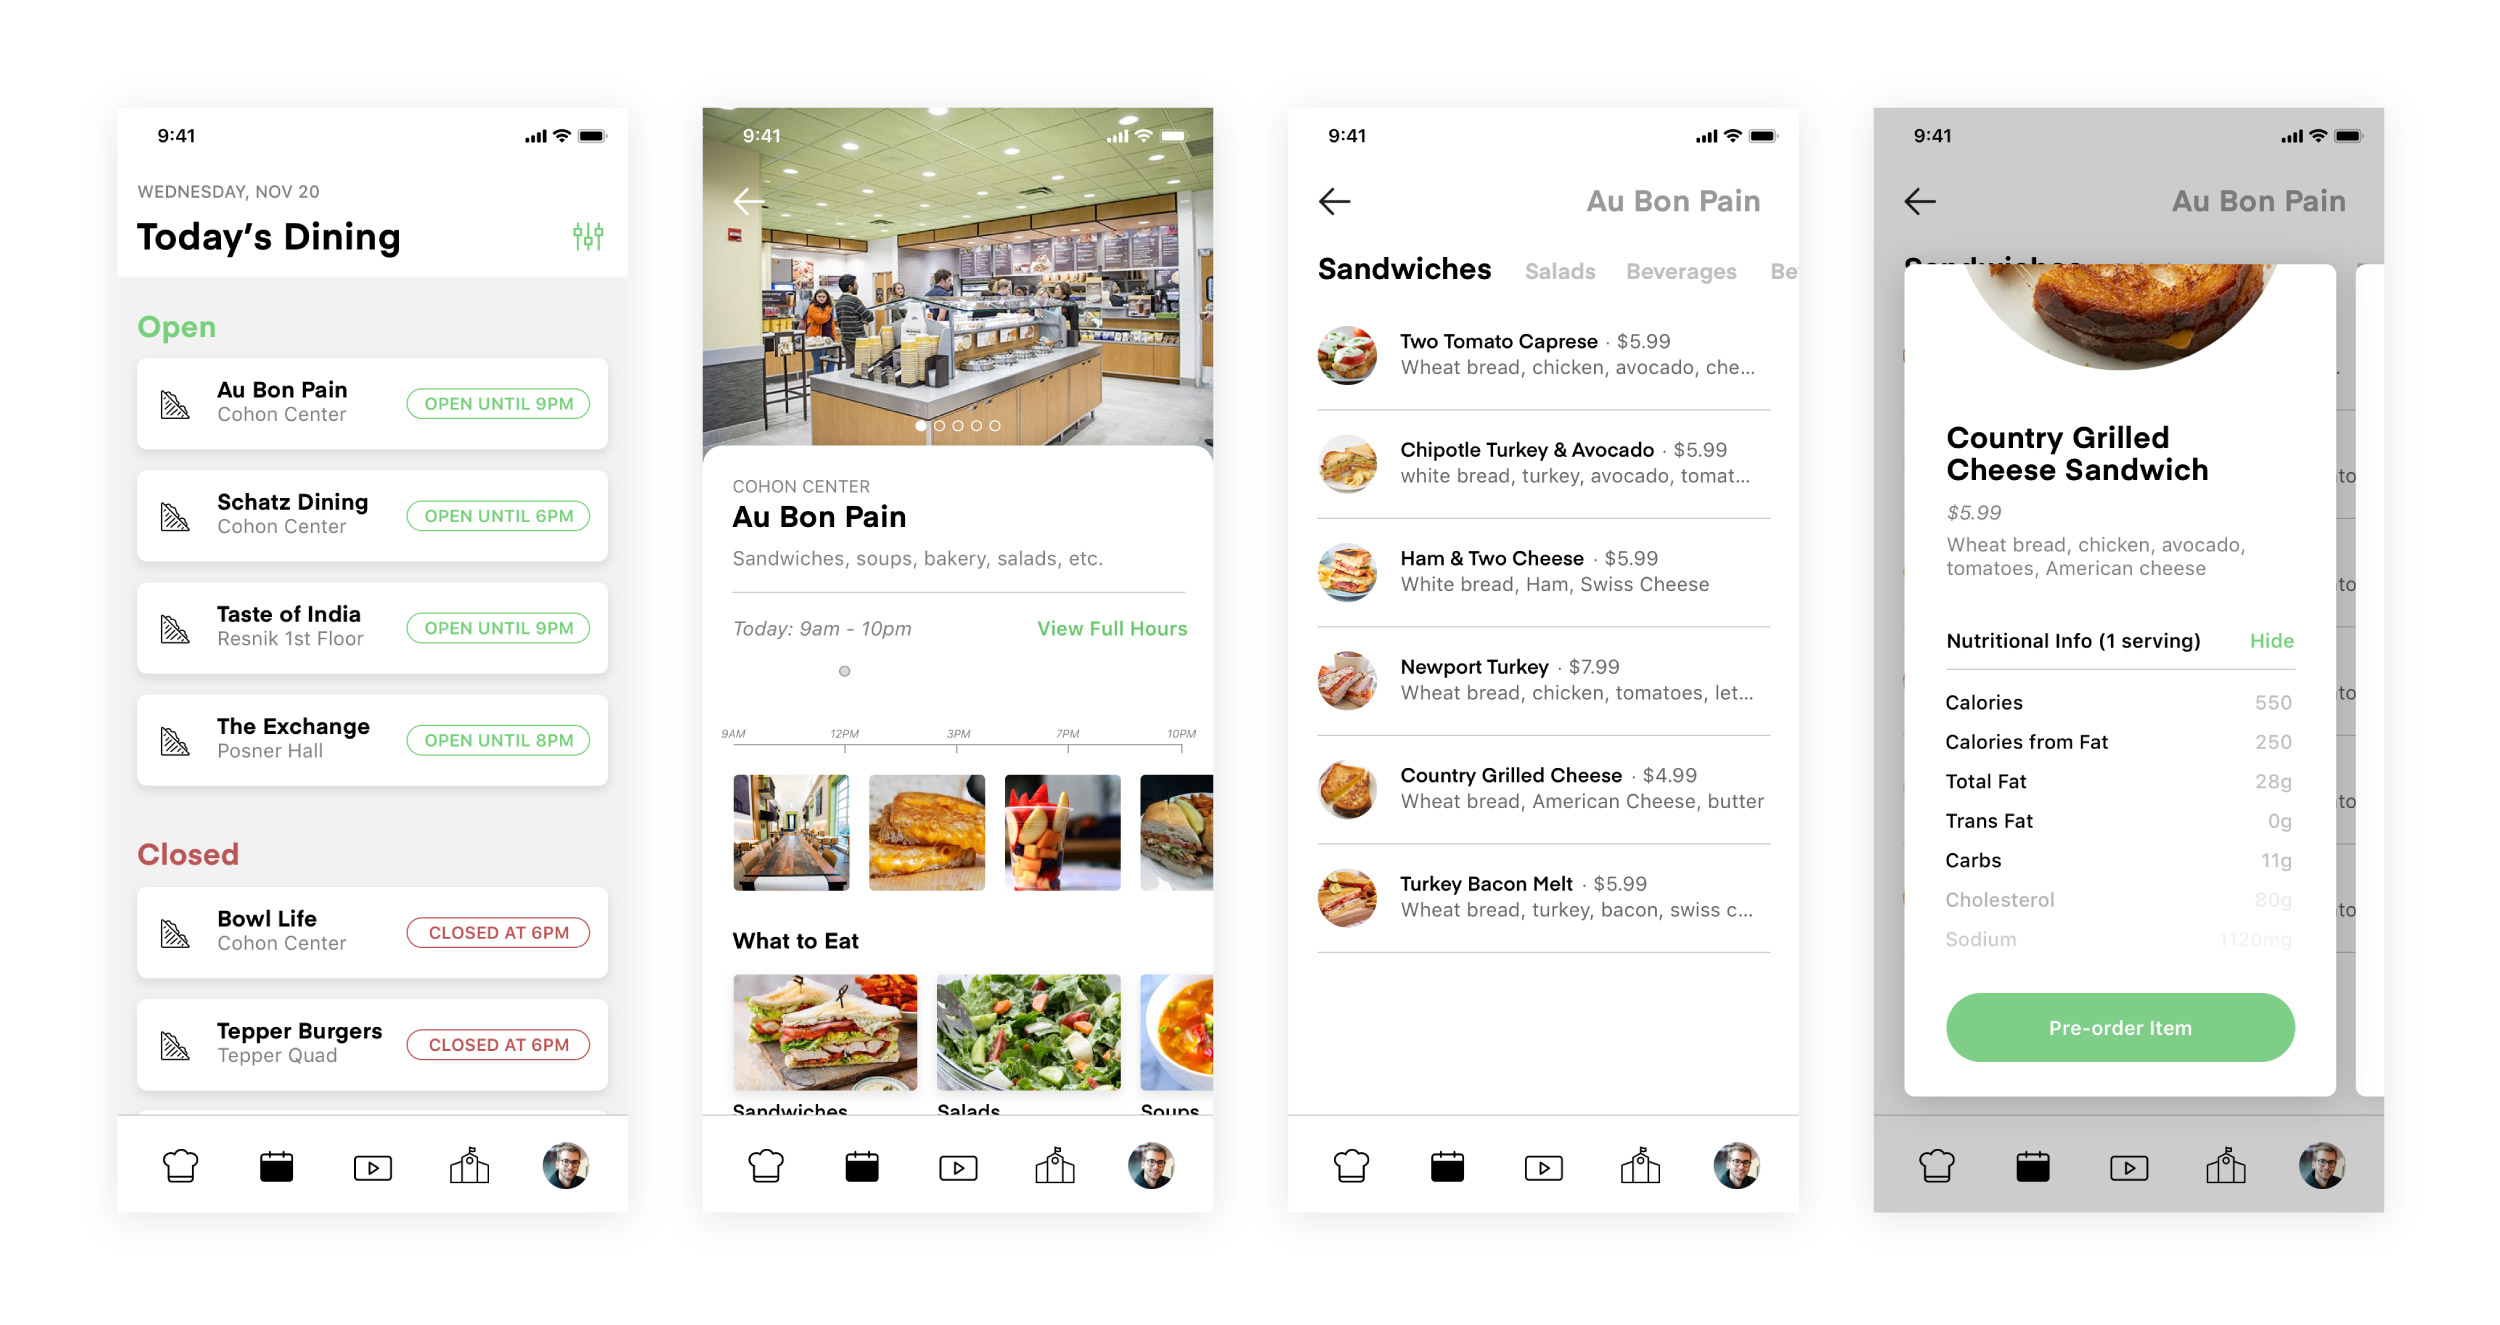
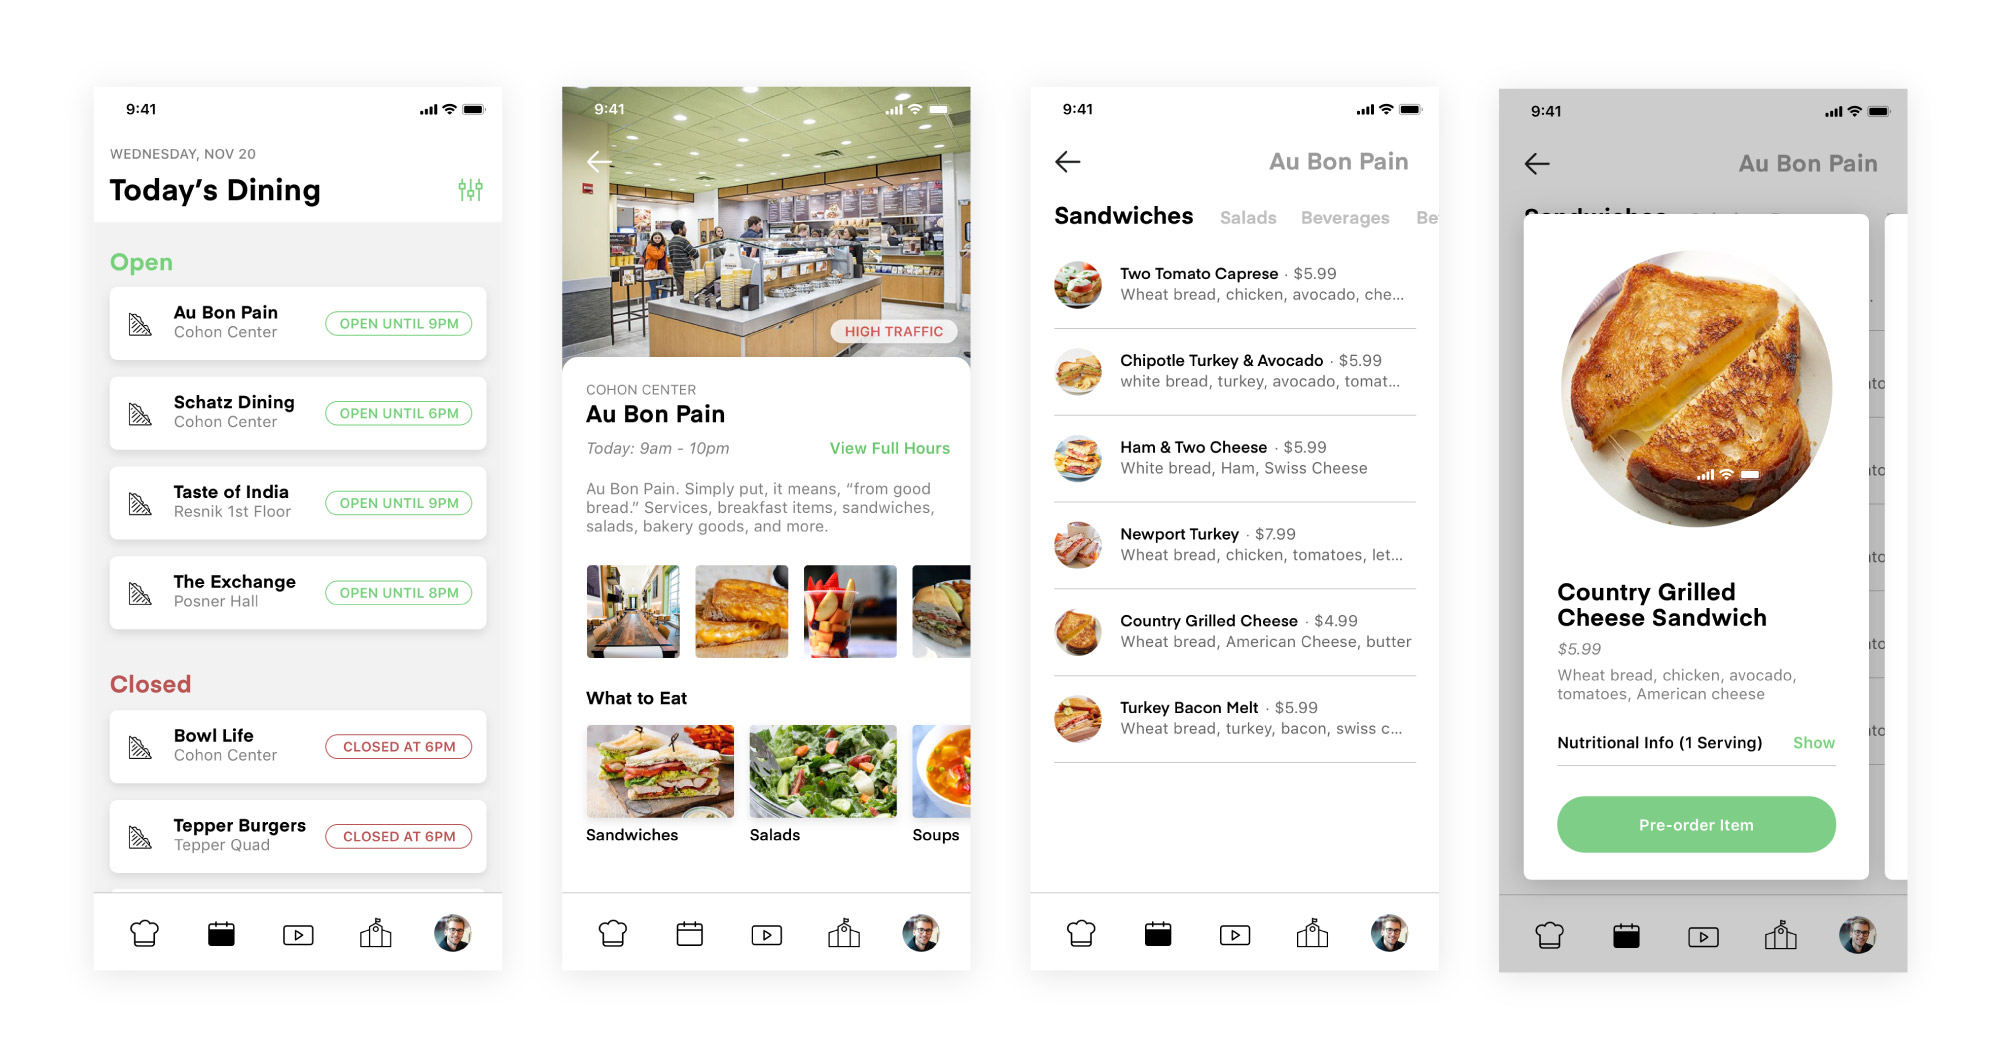
1

diff --git a/project_nutritionalLiteracy.html b/project_nutritionalLiteracy.html
@@ -143,7 +143,7 @@
                             <h4 class='left'>03 / User Research</h4>
                             <div class='right'>
                                 <h5>Overview</h5>
-                                <p>Over the course of two weeks, we gather a total of over +600 responses from over +150 unique profiles. Forms of research we conducted include:</p>
+                                <p>Over the course of four weeks, we gathered a total of over +600 responses from over +150 unique profiles. Forms of research we conducted include:</p>
                             </div>
                         </div>
                         <div class='spacer'></div>
@@ -228,8 +228,8 @@
                         <div class='right'>
                             <h5>Eating Stress Factors [Survey]</h5>
                             <p>Because we felt unsure of how to process the large amount of data, we went back into the field with one question:</p><br>
-                            <i>"What stresses you out about food?"</i><br>
-                            <p>Using the responses as a guide, we affinity mapped all our previous research into primary concerns expressed by students. This final survey reemphasized themes such as the significance of convenience. Another valuable insight was people's perception of food as binary in relation to physical appearance (eating “bad” food will make me “fat,” etc.), and the emotional baggage tied to that. Using our findings, we began listing out useful app features that could address each category of concern.</p>
+                            <i style='color:#47b46d;'>"What stresses you out about food?"</i><br>
+                            <p>Using the responses as a guide, we affinity mapped all our previous research into primary concerns expressed by students. <em>This final survey reemphasized themes such as the significance of convenience. Another valuable insight was people's perception of food as binary in relation to physical appearance (eating “bad” food will make me “fat,” etc.), and the emotional baggage tied to that.</em> Using our findings, we began listing out useful app features that could address each category of concern.</p>
                         </div>
                     </div>
     
@@ -243,6 +243,17 @@
                     <div class='text-wrap'>
                         <h4 class = 'left'>04 / Ideation + Prototyping</h4>
                         <div class = 'right'>
+                            <h5>Goal</h5>
+                            <p>To create something that enforces habit building through subconscious nudges. This meant that our solution had to be extremely practical for daily use and subtle when it came to behavior-changing features. The primary features we decided to design for included:</p><br>
+
+                            <i style='color:#47b46d;'>
+                            01 / Living Dining Calendar<br><br>
+                            02 / Pre-order System<br><br>
+                            03 / Recipe Exploring + Sharing<br><br>
+                            04 / User Profile Hub<br><br>
+                            05 / CMU Health Services<br><br>
+                            06 / Emotional Check-ins</i><br><br>
+
                             <h5>Competitive Analysis</h5>
                             <p>Upon finishing research, we looked at popular food and lifestyle apps to understand where they excelled. We chose these apps because of their popularity, approachability, practicality, ability to categorize information, and convey/create emotion (particularly through visual branding).</p>
                         </div>
@@ -260,7 +271,7 @@
                     </div>
                     <div class='spacer'></div>
                     <img class='image-container' src="images/project_nutritionalLiteracy/I_sketches.jpg">
-                    <p class='caption'>Doodles in my trust Moleskins</p>
+                    <p class='caption'>Doodles in my trusty Moleskin</p>
                     <div class='spacer'></div>
                     <img class='image-container' src="images/project_nutritionalLiteracy/P_lowFid2.png">
                     <p class='caption '>High Fidelity</p>
@@ -286,20 +297,16 @@
                             <h4 class = 'left'>05 / Final Designs</h4>
                             <div class = 'right'>
                                 <h5>Overview</h5>
-                                <p>From our user testing results, we developed our final app designs. In our final solution, we made sure to cater towards the wide spectrum of CMU students and their dietary needs. The primary features we decided to design for include:</p><br>
+                                <p>From our user testing results, we developed our final app designs. In our final solution, we made sure to cater towards the wide spectrum of CMU students and their dietary needs.</p><br><br>
 
-                                <i style='color:#47b46d;'>
-                                01 / Living Dining Calendar<br><br>
-                                02 / Pre-order System<br><br>
-                                03 / Recipe Exploring + Sharing<br><br>
-                                04 / User Profile Hub<br><br>
-                                05 / CMU Health Services<br><br>
-                                06 / Emotional Check-ins</i><br><br>
-
-                                <h5>Live Dining — Calendar</h5>z
+                                <h5>Live Dining — Calendar</h5>
                                 <p>The primary function for this app is the live dining calendar for on-campus restaurants. This already exists on CMU’s website as well as on a student-built site called CMU Eats, but the issue right now is a lot of valuable information on CMU dining is inaccessible because of how it is scattered across various digital services.<br><br>
 
-                                This feature is important to the app because it’s the practical feature that will keep students consistently using the app, and ultimately lead them explore our more emotional features. From this page, users are able to explore individual dining locations and view individual restaurant items.</p>
+                                <em>This feature is important to the app because it’s the practical feature that will keep students consistently using the app, and ultimately lead them explore our more behavior-changing features.</em> From this page, users are able to explore individual dining locations and view individual restaurant items.<br><br>
+                                
+                                <p>*After user testing, we included traffic tags that indicate population and traffic at each physical dining location. </p>
+                            
+                            </p>
                             </div>
                         </div>
                         <div class='spacer'></div>
@@ -319,7 +326,7 @@
                         <div class='text-wrap'>
                             <div class = 'right'>
                                 <h5>Living Dining - Preorder System</h5>
-                                <p>One of the biggest priorities we found among students was convenience and time. Introducing a pre-order system addresses this concern and creates a more efficient, stress-free dining experience for students.</p>
+                                <p>One of the biggest priorities we found among students was convenience and time. Introducing a pre-order system addresses this concern and creates a more efficient, stress-free dining experience for students.<br><br>*After user testing, we displayed estimated wait times for potential pre-orders.</p>
                             </div>
                             </div>
                             <div class='spacer'></div>
@@ -330,7 +337,8 @@
                         <div class='text-wrap'>
                             <div class = 'right'>
                                 <h5>Recipe Page</h5>
-                                <p>For people who sometimes or fully eat off campus, we added a recipe viewing and sharing aspect. We didn’t, however, want to create a social media platform where the number of likes dictates the user’s emotional state, so you can simply save recipes, but not see the quantity of saves. Because eating can be such an individual experience, we strived to maintain privacy while inspiring a positive community around nutrition. On each individual recipe page, users can view relevant information; such as time required to make, serving size, and difficulty level.</p>
+                                <p>For people who sometimes or fully eat off-campus, we designed a recipe viewing and sharing aspect. <em>We were really careful, however, about not creating a social media platform where the number of likes influenced an user’s emotional state. After user testing though, we did find that some sort of feedback about the reliability of recipes was extremely important.</em> Rather than hearts or thumbs ups, we decided to implement a "used tag count", which is my attempt at a neutral indicator that visualizes which recipes have been tested repeatedly.<br><br>
+                                <em>Another tricky obstacle we discovered after user testing was how to make the Recipe platform feel more peer-to-peer yet still maintain the privacy of the students who post. </em>Again, we really wanted to avoid the toxicity that comes from social media "clout."<br><br>*After user testing, our solution was to simply display the first name of the recipe publisher and their current year of study. Omitting the last name maintained a degree of anonymity and showing their school year helps reinforce that that these recipes are not externally sourced from the web.Furthermore, each individual recipe page, users can view relevant information such as time required to make, serving size, and difficulty level.</p>
                             </div>
                         </div>
                         <div class='spacer'></div>
@@ -396,7 +404,7 @@
                         <div class = 'text-wrap'>
                             <h4>07 / Conclusion</h4>
                             <div class = 'right'>
-                                <p>This project taught me so much in terms of time management, collaborative sensemaking, and the UX methoddology. <em>Though this project was carried out in an academic setting, EVERY aspect of the design process was self-facilitated.</em> Given the two restrictions of bettering the CMU community in the span of 8 weeks, we were the ones who structured our project timeline, chose our research methods, and carried out the final implementations. If we had more time for this project, we could create higher fidelity wireframes and potentially pitch our concept to the Carnegie Mellon Health and Dining staff.</p>
+                                <p>Our ultimate intention for this nutrition app is for university students to equip themselves with long lasting physical and emotional tools that will guide them past their time in school. The point of this app isn't just to provide a convenient dining calendar or recipe page; it's to help frame a more positive dialogue around what food culture should be like. We understand that nutritional health is something that may never be perfected, but we believe that it's something that can be worked on.</p>
                             </div>
                         </div>
                     </div>
